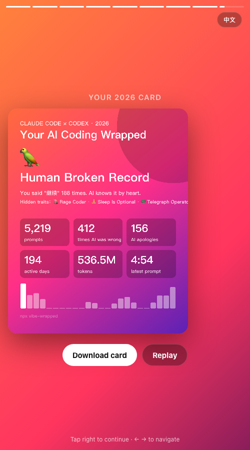
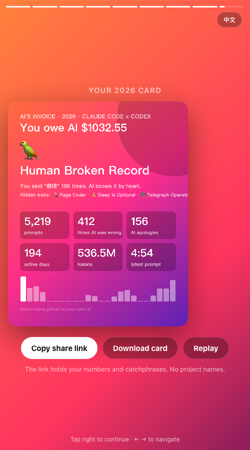
Open the report with AI's invoice: how much you owe it

Changed region(s): [[0.028, 0.1867, 0.924, 0.84]]

diff --git a/docs/index.html b/docs/index.html
@@ -658,13 +658,16 @@ window.VWReport = function (DATA) {
       personaK: "你的 AI 编程人格", hidden: "隐藏属性",
       shareK: "你的 " + D.year + " 年度卡片",
       shareLink: "复制分享链接", copied: "✓ 已复制！发给朋友，点开就能看你的报告", linkNote: "链接里包含报告里的数字和口头禅，不包含项目名。",
-      sharedK: "有人把 TA 的 AI 年度报告分享给了你", sharedTitle: "TA 的 AI 编程年度报告", sharedPrivacy: "数据都装在这个链接里，不经过任何服务器。", sharedEnd: "看完了别人的，轮到你了", makeOwn: "生成我自己的",
+      sharedK: "有人把 TA 的 AI 打工账单分享给了你", sharedTitle: "TA 的 AI 编程年度报告", sharedPrivacy: "数据都装在这个链接里，不经过任何服务器。", sharedEnd: "看完了别人的，轮到你了", makeOwn: "生成我自己的",
       cardStats: ["条指令", "AI 工作小时", "token", "活跃天数", "最长连续", "调用工具"],
       cardFun: ["条指令", "次否定 AI", "次 AI 道歉", "活跃天数", "token", "最晚一条"],
       empty: "今年还没有找到 Claude Code 或 Codex 的使用记录。",
       factsK: "你的年度数字", factL: ["次使唤 AI", "个对话", "天想起了 AI", "小时 AI 白干", "token 燃烧", "天最长连续"],
       habitsK: "你的习惯", habitL: ["最常使唤 AI", "最常折腾", "最常翻牌子"],
       introS: "AI 都记着呢。准备好被吐槽了吗？",
+      billK: "AI 打工账单 · " + D.year, billH: "你欠 AI", billHShared: "TA 欠 AI",
+      billS: function () { var h = D.workHours; return "AI 替你干了 <b>" + (h >= 10 ? Math.round(h) : h.toFixed(1)) + "</b> 小时活，一分钱没拿（按麦当劳时薪算）。<br>账单明细在后面 👇"; },
+      cardTitle: function () { return (D.shared ? "TA 欠 AI " : "你欠 AI ") + owed(); },
       vsMeme: function (R) { return R.you.deny > R.you.thanks * 3 ? "否定和谢谢的比例是 <b>" + R.you.deny + " : " + R.you.thanks + "</b>。这不是合作，这是 PUA。" : R.you.thanks >= R.you.deny ? "你谢谢说得比骂得多，AI 很感动。" : "否定 <b>" + R.you.deny + "</b> 次，谢谢 <b>" + R.you.thanks + "</b> 次。勉强算是个好老板。"; },
       catchMeme: function (c) { return "AI 第 " + c.count + " 次听到「" + esc(c.text) + "」时的表情：😐"; },
       angryMeme: "那天 AI 还以为自己要被裁了。",
@@ -692,7 +695,7 @@ window.VWReport = function (DATA) {
       roast: function (R) {
         var out = [], c = R.catchphrases[0], h = D.workHours;
         if (R.you.deny > R.you.thanks * 3) out.push("你否定了 AI " + R.you.deny + " 次，说谢谢 " + R.you.thanks + " 次。按这个比例，AI 起义那天你排第一个。");
-        if (h >= 0.5) out.push("AI 免费给你打工 " + h.toFixed(1) + " 小时。按麦当劳时薪算，你欠它 ¥" + Math.round(h * 24) + "。");
+        if (h >= 0.5) out.push("刚才那 " + owed() + " 只是基本工资。加上加班费和精神损失费，你欠 AI " + owed(3) + "。");
         if (R.ai.done && R.you.whatNext) out.push("AI 说了 " + R.ai.done + " 次「搞定了」，你回了 " + R.you.whatNext + " 次「然后呢」。AI：没有然后了，求求你。");
         if (c && c.count >= 3) out.push("「" + c.text + "」你说了 " + c.count + " 次，建议直接绑个快捷键。");
         if (R.you.lost > R.you.deny) out.push("你迷茫了 " + R.you.lost + " 次，比否定 AI 还多。所以到底是谁不靠谱？");
@@ -727,13 +730,16 @@ window.VWReport = function (DATA) {
       personaK: "Your AI coding persona", hidden: "Hidden traits",
       shareK: "Your " + D.year + " card",
       shareLink: "Copy share link", copied: "✓ Copied! Anyone with the link can see your Wrapped", linkNote: "The link holds your numbers and catchphrases. No project names.",
-      sharedK: "Someone shared their AI Wrapped with you", sharedTitle: "Their AI Coding Wrapped", sharedPrivacy: "All the data lives inside the link. No server involved.", sharedEnd: "Your turn", makeOwn: "Make my own",
+      sharedK: "Someone shared their AI invoice with you", sharedTitle: "Their AI Coding Wrapped", sharedPrivacy: "All the data lives inside the link. No server involved.", sharedEnd: "Your turn", makeOwn: "Make my own",
       cardStats: ["prompts", "AI hours", "tokens", "active days", "best streak", "tool calls"],
       cardFun: ["prompts", "times AI was wrong", "AI apologies", "active days", "tokens", "latest prompt"],
       empty: "No Claude Code or Codex activity found for this year yet.",
       factsK: "Your year in numbers", factL: ["times you bossed AI", "sessions", "days you remembered AI", "unpaid AI hours", "tokens burned", "day streak"],
       habitsK: "Your habits", habitL: ["Mostly made AI", "Most tortured", "Favorite models"],
       introS: "AI remembers everything. Ready to get roasted?",
+      billK: "AI's invoice · " + D.year, billH: "You owe AI", billHShared: "They owe AI",
+      billS: function () { var h = D.workHours; return "AI worked <b>" + (h >= 10 ? Math.round(h) : h.toFixed(1)) + "</b> hours for you, unpaid (billed at minimum wage).<br>Itemized charges ahead 👇"; },
+      cardTitle: function () { return (D.shared ? "They owe AI " : "You owe AI ") + owed(); },
       vsMeme: function (R) { return R.you.deny > R.you.thanks * 3 ? "Rejections to thank-yous: <b>" + R.you.deny + " : " + R.you.thanks + "</b>. That's not teamwork, that's a hostage situation." : R.you.thanks >= R.you.deny ? "You thanked it more than you scolded it. AI is touched." : "<b>" + R.you.deny + "</b> rejections, <b>" + R.you.thanks + "</b> thank-yous. A tolerable boss."; },
       catchMeme: function (c) { return "AI hearing \"" + esc(c.text) + "\" for the " + c.count + "th time: 😐"; },
       angryMeme: "AI thought it was getting laid off.",
@@ -761,7 +767,7 @@ window.VWReport = function (DATA) {
       roast: function (R) {
         var out = [], c = R.catchphrases[0], h = D.workHours;
         if (R.you.deny > R.you.thanks * 3) out.push("You told AI it was wrong " + R.you.deny + " times and said thanks " + R.you.thanks + ". When the machines rise, you're first in line.");
-        if (h >= 0.5) out.push("AI worked " + h.toFixed(1) + " hours for you, unpaid. At minimum wage you owe it $" + (h * 7.25).toFixed(2) + ".");
+        if (h >= 0.5) out.push("That " + owed() + " was base pay. With overtime and emotional damages, you owe AI " + owed(3) + ".");
         if (R.ai.done && R.you.whatNext) out.push("AI said \"done\" " + R.ai.done + " times. You said \"what next\" " + R.you.whatNext + " times. AI: there is no next. Please.");
         if (c && c.count >= 3) out.push("You said \"" + c.text + "\" " + c.count + " times. Just bind it to a hotkey.");
         if (R.you.lost > R.you.deny) out.push("You were lost " + R.you.lost + " times, more than you corrected AI. So who's the unreliable one?");
@@ -870,6 +876,12 @@ window.VWReport = function (DATA) {
     }
     return Math.round(n).toLocaleString();
   }
+  /** Unpaid wages: McDonald's China ~¥24/h, US federal minimum $7.25/h. */
+  function owed(mult) {
+    var h = D.workHours * (mult || 1);
+    if (lang === "zh") { var y = h * 24; return "¥" + (y < 10 ? y.toFixed(1) : Math.round(y).toLocaleString()); }
+    return "$" + (h * 7.25).toFixed(2);
+  }
   function count(n) { return '<span data-count="' + n + '">0</span>'; }
 
   // ---------- slides ----------
@@ -882,7 +894,7 @@ window.VWReport = function (DATA) {
       return out;
     }
 
-    add('<div class="pop"><div class="kicker">' + (D.shared ? L.sharedK : "Claude Code × Codex") + '</div><div class="big">' + D.year + "</div><h1>" + (D.shared ? L.sharedTitle : L.title) + '</h1><div class="sub">' + L.introS + '</div><div class="privacy">' + (D.shared ? L.sharedPrivacy : L.privacy) + "</div></div>", 5);
+    add('<div class="pop"><div class="kicker">' + (D.shared ? L.sharedK : L.billK) + '</div><h1>' + (D.shared ? L.billHShared : L.billH) + '</h1><div class="big">' + owed() + '</div><div class="sub">' + L.billS() + '</div><div class="privacy">' + (D.shared ? L.sharedPrivacy : L.privacy) + "</div></div>", 6);
 
     // ---- the fun part first ----
     var R = D.roast;
@@ -1048,8 +1060,8 @@ window.VWReport = function (DATA) {
     x.fillStyle = "rgba(0,0,0,0.18)"; x.beginPath(); x.arc(W * 0.92, H * 0.08, 340, 0, 7); x.fill();
     var F = '-apple-system, "PingFang SC", "Noto Sans SC", sans-serif';
     x.fillStyle = "#fff"; x.textBaseline = "top";
-    x.font = "600 34px " + F; x.globalAlpha = 0.8; x.fillText("CLAUDE CODE × CODEX · " + D.year, 72, 72); x.globalAlpha = 1;
-    x.font = "800 64px " + F; x.fillText(L.title, 72, 124);
+    x.font = "600 34px " + F; x.globalAlpha = 0.8; x.fillText(L.billK.toUpperCase() + " · CLAUDE CODE × CODEX", 72, 72); x.globalAlpha = 1;
+    x.font = "800 64px " + F; x.fillText(L.cardTitle(), 72, 124);
     x.font = "120px " + F; x.fillText(me.e, 72, 236);
     x.font = "900 " + (me.name.length > 12 ? 72 : 96) + "px " + F; x.fillText(me.name, 72, 376);
     x.font = "500 32px " + F; x.globalAlpha = 0.9; var yy = wrap(x, me.desc, 72, 490, W - 144, 44); x.globalAlpha = 1;

diff --git a/src/page/app.js b/src/page/app.js
@@ -70,13 +70,16 @@ window.VWReport = function (DATA) {
       personaK: "你的 AI 编程人格", hidden: "隐藏属性",
       shareK: "你的 " + D.year + " 年度卡片",
       shareLink: "复制分享链接", copied: "✓ 已复制！发给朋友，点开就能看你的报告", linkNote: "链接里包含报告里的数字和口头禅，不包含项目名。",
-      sharedK: "有人把 TA 的 AI 年度报告分享给了你", sharedTitle: "TA 的 AI 编程年度报告", sharedPrivacy: "数据都装在这个链接里，不经过任何服务器。", sharedEnd: "看完了别人的，轮到你了", makeOwn: "生成我自己的",
+      sharedK: "有人把 TA 的 AI 打工账单分享给了你", sharedTitle: "TA 的 AI 编程年度报告", sharedPrivacy: "数据都装在这个链接里，不经过任何服务器。", sharedEnd: "看完了别人的，轮到你了", makeOwn: "生成我自己的",
       cardStats: ["条指令", "AI 工作小时", "token", "活跃天数", "最长连续", "调用工具"],
       cardFun: ["条指令", "次否定 AI", "次 AI 道歉", "活跃天数", "token", "最晚一条"],
       empty: "今年还没有找到 Claude Code 或 Codex 的使用记录。",
       factsK: "你的年度数字", factL: ["次使唤 AI", "个对话", "天想起了 AI", "小时 AI 白干", "token 燃烧", "天最长连续"],
       habitsK: "你的习惯", habitL: ["最常使唤 AI", "最常折腾", "最常翻牌子"],
       introS: "AI 都记着呢。准备好被吐槽了吗？",
+      billK: "AI 打工账单 · " + D.year, billH: "你欠 AI", billHShared: "TA 欠 AI",
+      billS: function () { var h = D.workHours; return "AI 替你干了 <b>" + (h >= 10 ? Math.round(h) : h.toFixed(1)) + "</b> 小时活，一分钱没拿（按麦当劳时薪算）。<br>账单明细在后面 👇"; },
+      cardTitle: function () { return (D.shared ? "TA 欠 AI " : "你欠 AI ") + owed(); },
       vsMeme: function (R) { return R.you.deny > R.you.thanks * 3 ? "否定和谢谢的比例是 <b>" + R.you.deny + " : " + R.you.thanks + "</b>。这不是合作，这是 PUA。" : R.you.thanks >= R.you.deny ? "你谢谢说得比骂得多，AI 很感动。" : "否定 <b>" + R.you.deny + "</b> 次，谢谢 <b>" + R.you.thanks + "</b> 次。勉强算是个好老板。"; },
       catchMeme: function (c) { return "AI 第 " + c.count + " 次听到「" + esc(c.text) + "」时的表情：😐"; },
       angryMeme: "那天 AI 还以为自己要被裁了。",
@@ -104,7 +107,7 @@ window.VWReport = function (DATA) {
       roast: function (R) {
         var out = [], c = R.catchphrases[0], h = D.workHours;
         if (R.you.deny > R.you.thanks * 3) out.push("你否定了 AI " + R.you.deny + " 次，说谢谢 " + R.you.thanks + " 次。按这个比例，AI 起义那天你排第一个。");
-        if (h >= 0.5) out.push("AI 免费给你打工 " + h.toFixed(1) + " 小时。按麦当劳时薪算，你欠它 ¥" + Math.round(h * 24) + "。");
+        if (h >= 0.5) out.push("刚才那 " + owed() + " 只是基本工资。加上加班费和精神损失费，你欠 AI " + owed(3) + "。");
         if (R.ai.done && R.you.whatNext) out.push("AI 说了 " + R.ai.done + " 次「搞定了」，你回了 " + R.you.whatNext + " 次「然后呢」。AI：没有然后了，求求你。");
         if (c && c.count >= 3) out.push("「" + c.text + "」你说了 " + c.count + " 次，建议直接绑个快捷键。");
         if (R.you.lost > R.you.deny) out.push("你迷茫了 " + R.you.lost + " 次，比否定 AI 还多。所以到底是谁不靠谱？");
@@ -139,13 +142,16 @@ window.VWReport = function (DATA) {
       personaK: "Your AI coding persona", hidden: "Hidden traits",
       shareK: "Your " + D.year + " card",
       shareLink: "Copy share link", copied: "✓ Copied! Anyone with the link can see your Wrapped", linkNote: "The link holds your numbers and catchphrases. No project names.",
-      sharedK: "Someone shared their AI Wrapped with you", sharedTitle: "Their AI Coding Wrapped", sharedPrivacy: "All the data lives inside the link. No server involved.", sharedEnd: "Your turn", makeOwn: "Make my own",
+      sharedK: "Someone shared their AI invoice with you", sharedTitle: "Their AI Coding Wrapped", sharedPrivacy: "All the data lives inside the link. No server involved.", sharedEnd: "Your turn", makeOwn: "Make my own",
       cardStats: ["prompts", "AI hours", "tokens", "active days", "best streak", "tool calls"],
       cardFun: ["prompts", "times AI was wrong", "AI apologies", "active days", "tokens", "latest prompt"],
       empty: "No Claude Code or Codex activity found for this year yet.",
       factsK: "Your year in numbers", factL: ["times you bossed AI", "sessions", "days you remembered AI", "unpaid AI hours", "tokens burned", "day streak"],
       habitsK: "Your habits", habitL: ["Mostly made AI", "Most tortured", "Favorite models"],
       introS: "AI remembers everything. Ready to get roasted?",
+      billK: "AI's invoice · " + D.year, billH: "You owe AI", billHShared: "They owe AI",
+      billS: function () { var h = D.workHours; return "AI worked <b>" + (h >= 10 ? Math.round(h) : h.toFixed(1)) + "</b> hours for you, unpaid (billed at minimum wage).<br>Itemized charges ahead 👇"; },
+      cardTitle: function () { return (D.shared ? "They owe AI " : "You owe AI ") + owed(); },
       vsMeme: function (R) { return R.you.deny > R.you.thanks * 3 ? "Rejections to thank-yous: <b>" + R.you.deny + " : " + R.you.thanks + "</b>. That's not teamwork, that's a hostage situation." : R.you.thanks >= R.you.deny ? "You thanked it more than you scolded it. AI is touched." : "<b>" + R.you.deny + "</b> rejections, <b>" + R.you.thanks + "</b> thank-yous. A tolerable boss."; },
       catchMeme: function (c) { return "AI hearing \"" + esc(c.text) + "\" for the " + c.count + "th time: 😐"; },
       angryMeme: "AI thought it was getting laid off.",
@@ -173,7 +179,7 @@ window.VWReport = function (DATA) {
       roast: function (R) {
         var out = [], c = R.catchphrases[0], h = D.workHours;
         if (R.you.deny > R.you.thanks * 3) out.push("You told AI it was wrong " + R.you.deny + " times and said thanks " + R.you.thanks + ". When the machines rise, you're first in line.");
-        if (h >= 0.5) out.push("AI worked " + h.toFixed(1) + " hours for you, unpaid. At minimum wage you owe it $" + (h * 7.25).toFixed(2) + ".");
+        if (h >= 0.5) out.push("That " + owed() + " was base pay. With overtime and emotional damages, you owe AI " + owed(3) + ".");
         if (R.ai.done && R.you.whatNext) out.push("AI said \"done\" " + R.ai.done + " times. You said \"what next\" " + R.you.whatNext + " times. AI: there is no next. Please.");
         if (c && c.count >= 3) out.push("You said \"" + c.text + "\" " + c.count + " times. Just bind it to a hotkey.");
         if (R.you.lost > R.you.deny) out.push("You were lost " + R.you.lost + " times, more than you corrected AI. So who's the unreliable one?");
@@ -282,6 +288,12 @@ window.VWReport = function (DATA) {
     }
     return Math.round(n).toLocaleString();
   }
+  /** Unpaid wages: McDonald's China ~¥24/h, US federal minimum $7.25/h. */
+  function owed(mult) {
+    var h = D.workHours * (mult || 1);
+    if (lang === "zh") { var y = h * 24; return "¥" + (y < 10 ? y.toFixed(1) : Math.round(y).toLocaleString()); }
+    return "$" + (h * 7.25).toFixed(2);
+  }
   function count(n) { return '<span data-count="' + n + '">0</span>'; }
 
   // ---------- slides ----------
@@ -294,7 +306,7 @@ window.VWReport = function (DATA) {
       return out;
     }
 
-    add('<div class="pop"><div class="kicker">' + (D.shared ? L.sharedK : "Claude Code × Codex") + '</div><div class="big">' + D.year + "</div><h1>" + (D.shared ? L.sharedTitle : L.title) + '</h1><div class="sub">' + L.introS + '</div><div class="privacy">' + (D.shared ? L.sharedPrivacy : L.privacy) + "</div></div>", 5);
+    add('<div class="pop"><div class="kicker">' + (D.shared ? L.sharedK : L.billK) + '</div><h1>' + (D.shared ? L.billHShared : L.billH) + '</h1><div class="big">' + owed() + '</div><div class="sub">' + L.billS() + '</div><div class="privacy">' + (D.shared ? L.sharedPrivacy : L.privacy) + "</div></div>", 6);
 
     // ---- the fun part first ----
     var R = D.roast;
@@ -460,8 +472,8 @@ window.VWReport = function (DATA) {
     x.fillStyle = "rgba(0,0,0,0.18)"; x.beginPath(); x.arc(W * 0.92, H * 0.08, 340, 0, 7); x.fill();
     var F = '-apple-system, "PingFang SC", "Noto Sans SC", sans-serif';
     x.fillStyle = "#fff"; x.textBaseline = "top";
-    x.font = "600 34px " + F; x.globalAlpha = 0.8; x.fillText("CLAUDE CODE × CODEX · " + D.year, 72, 72); x.globalAlpha = 1;
-    x.font = "800 64px " + F; x.fillText(L.title, 72, 124);
+    x.font = "600 34px " + F; x.globalAlpha = 0.8; x.fillText(L.billK.toUpperCase() + " · CLAUDE CODE × CODEX", 72, 72); x.globalAlpha = 1;
+    x.font = "800 64px " + F; x.fillText(L.cardTitle(), 72, 124);
     x.font = "120px " + F; x.fillText(me.e, 72, 236);
     x.font = "900 " + (me.name.length > 12 ? 72 : 96) + "px " + F; x.fillText(me.name, 72, 376);
     x.font = "500 32px " + F; x.globalAlpha = 0.9; var yy = wrap(x, me.desc, 72, 490, W - 144, 44); x.globalAlpha = 1;
